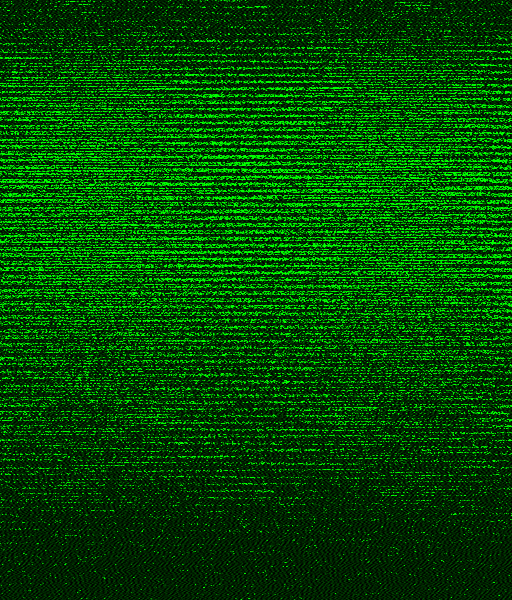
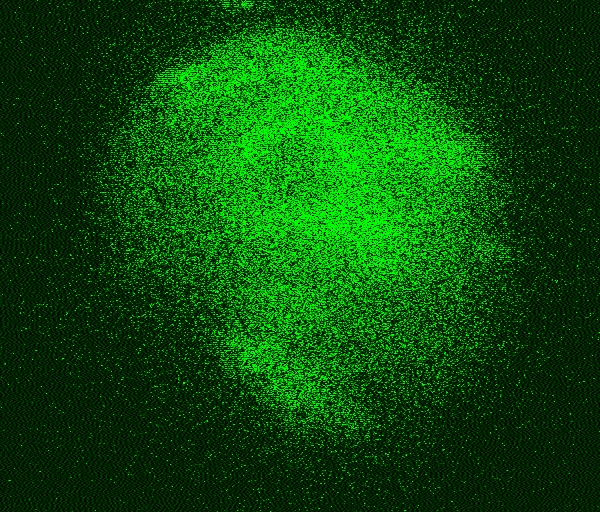
ciam.py: Se modificaron parametros para cualquier tamaño de imagen

diff --git a/ciam.py b/ciam.py
@@ -56,7 +56,7 @@ def girar(matrixB):
     turn=False
     aux = np.empty((matrixB.shape[1]))
     print("Aux: ",len(aux))
-    for i in range(matrixB.shape[1]):
+    for i in range(matrixB.shape[0]):
         if(turn==True):
             for k in range(matrixB.shape[1]):
                 aux[k]=matrixB[i][k]
@@ -83,7 +83,7 @@ def fase(numFase,dataDesf):
     
 def acoplar(numAcoplo,matrixBG):
     acoplo=True
-    for i in range(matrixBG.shape[1]):
+    for i in range(matrixBG.shape[0]):
         if(acoplo==True):
             matrixBG[i,:]=fase(numAcoplo,matrixBG[i,:])
         acoplo=not(acoplo)
